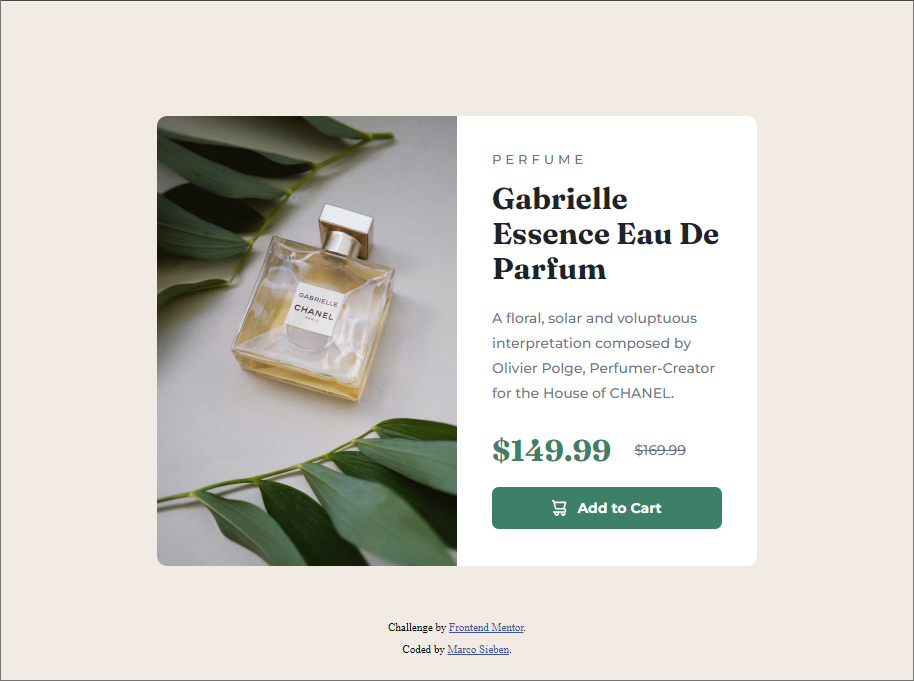
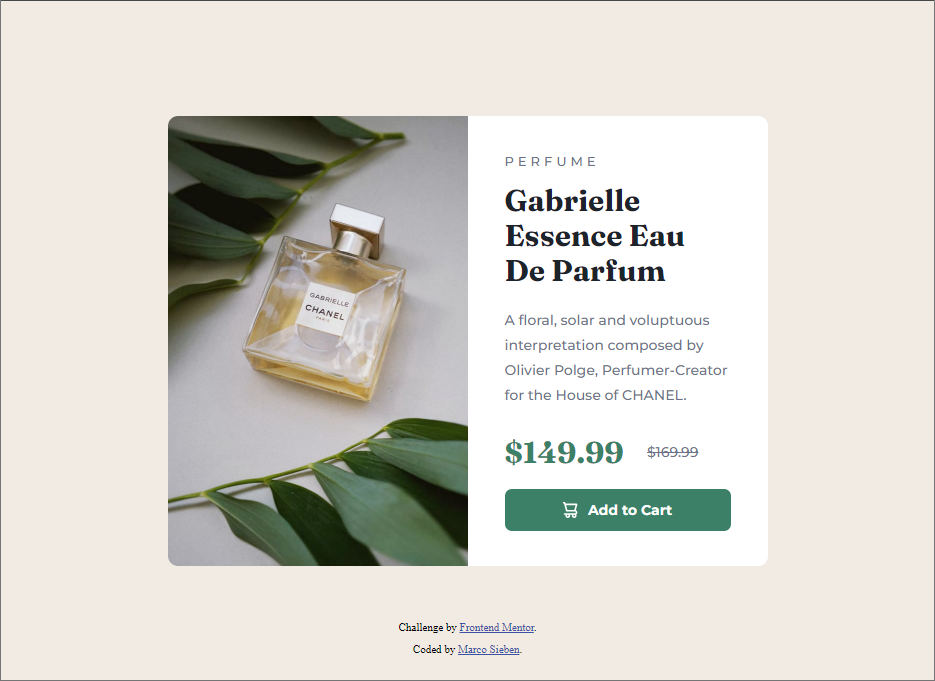
fixed css and layout

diff --git a/styles/styles.css b/styles/styles.css
@@ -76,7 +76,7 @@ img {
 }
 
 .card__wrapper {
-  padding: 3.5rem;
+  padding: 3.7rem;
 }
 
 .card__subtitle {
